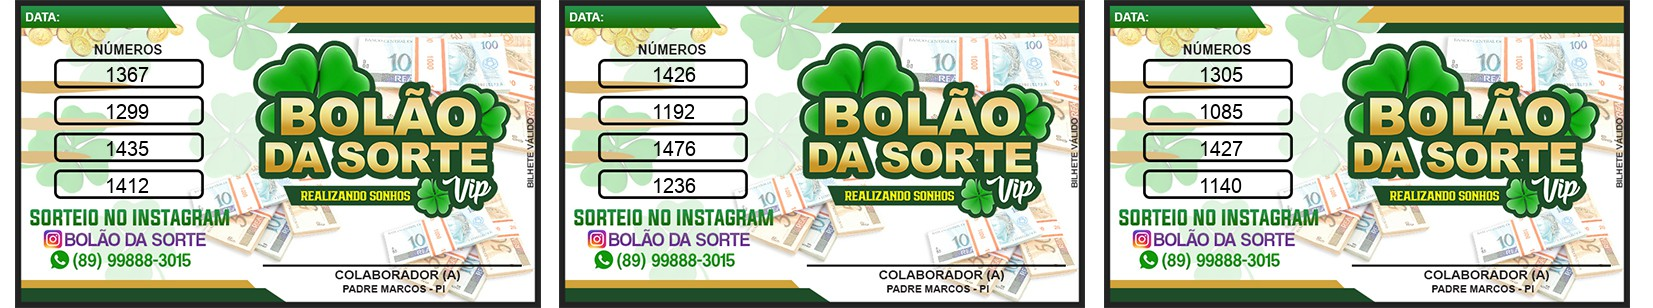
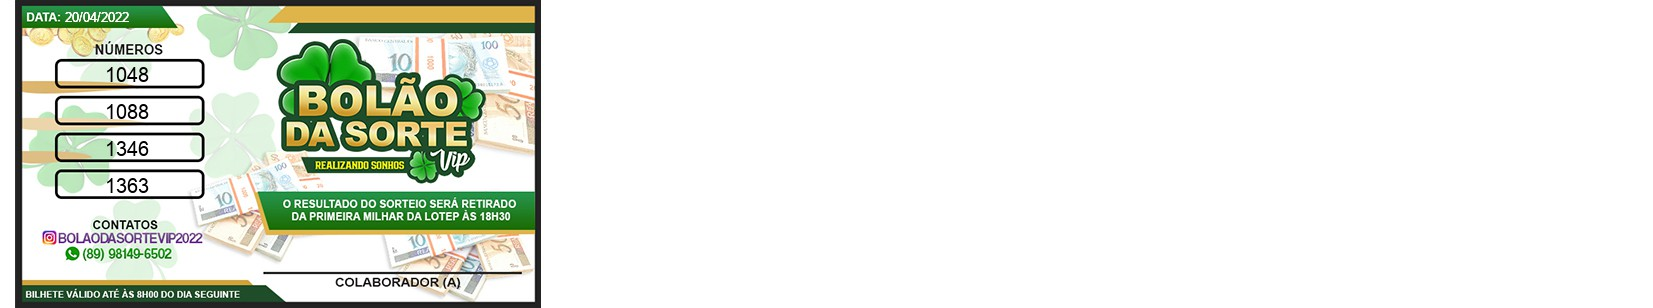
novo modelo

diff --git a/app/Http/Controllers/MediaController.php b/app/Http/Controllers/MediaController.php
@@ -29,15 +29,24 @@ class MediaController extends Controller
 
     public function makeimageOne($count, $array)  
     {  
-       $img = Image::make(public_path('images/modelo1-1n.jpg'));  
+       $img = Image::make(public_path('images/modelo1-1w.jpg'));  
        //$img->text('This is a example ', 120, 100);
        $position = 82;
        // use callback to define details
+       $data  =Carbon::now();
+       $dt = $data->format('d/m/Y');
 
        foreach($array as $item){
             $img->text($item, 105, $position, function($font) {
                 $font->file(public_path('arial/arial.ttf'));
                 $font->size(20);
+                
+            });  
+
+            $img->text($dt, 65,  22, function($font) {
+                $font->file(public_path('arial/arial.ttf'));
+                $font->size(13);
+                $font->color('#FFFAFA');
                 
             });  
             $position += 37;
@@ -50,15 +59,24 @@ class MediaController extends Controller
 
     public function makeimageTwo($count, $array, $array2)  
     {  
-       $img = Image::make(public_path('images/modelo1-2n.jpg'));  
+       $img = Image::make(public_path('images/modelo1-2w.jpg'));  
        //$img->text('This is a example ', 120, 100);
        $position = 82;
        // use callback to define details
+       $data  =Carbon::now();
+       $dt = $data->format('d/m/Y');
 
        foreach($array as $item){
             $img->text($item, 105, $position, function($font) {
                 $font->file(public_path('arial/arial.ttf'));
                 $font->size(20);
+                
+            });  
+
+            $img->text($dt, 65,  22, function($font) {
+                $font->file(public_path('arial/arial.ttf'));
+                $font->size(13);
+                $font->color('#FFFAFA');
                 
             });  
             $position += 37;
@@ -73,6 +91,14 @@ class MediaController extends Controller
                 $font->size(20);
                 
             });  
+
+            $img->text($dt, 607,  22, function($font) {
+                $font->file(public_path('arial/arial.ttf'));
+                $font->size(13);
+                $font->color('#FFFAFA');
+                
+            });  
+            
             $position += 37;
 
         }
@@ -83,17 +109,28 @@ class MediaController extends Controller
 
     public function makeimageThree($count, $array, $array2, $array3)  
     {  
-       $img = Image::make(public_path('images/modelo1-3.jpg'));  
+       $img = Image::make(public_path('images/modelo1-3w.jpg'));  
        //$img->text('This is a example ', 120, 100);
        $position = 82;
        // use callback to define details
         //Array 1
+        $data  =Carbon::now();
+        $dt = $data->format('d/m/Y');
+        //dd($data->format('d/m/Y'));
        foreach($array as $item){
             $img->text($item, 105, $position, function($font) {
                 $font->file(public_path('arial/arial.ttf'));
                 $font->size(20);
                 
             });  
+
+            $img->text($dt, 65,  22, function($font) {
+                $font->file(public_path('arial/arial.ttf'));
+                $font->size(13);
+                $font->color('#FFFAFA');
+                
+            });  
+            
             $position += 37;
 
        }
@@ -106,6 +143,14 @@ class MediaController extends Controller
                 $font->size(20);
                 
             });  
+
+            $img->text($dt, 607,  22, function($font) {
+                $font->file(public_path('arial/arial.ttf'));
+                $font->size(13);
+                $font->color('#FFFAFA');
+                
+            });  
+
             $position += 37;
 
         }
@@ -118,6 +163,14 @@ class MediaController extends Controller
                  $font->size(20);
                  
              });  
+
+             $img->text($dt, 1152,  22, function($font) {
+                $font->file(public_path('arial/arial.ttf'));
+                $font->size(13);
+                $font->color('#FFFAFA');
+                
+            });  
+
              $position += 37;
  
          }
@@ -137,7 +190,7 @@ class MediaController extends Controller
         $intervalo = $max - $min;
 
 
-
+       
 
 
         if($min > $max){
@@ -150,10 +203,7 @@ class MediaController extends Controller
             return back()->with('error', 'O numero de bilhetes a ser gerados é maior que o intervalo de numeros informados!');
             //retornar erro pois a  
         }
-        $model1 = public_path('images/modelo1-1.jpg');
-        $model2 = public_path('images/modelo1-2.jpg');
-        $model3 = public_path('images/modelo1-3.jpg');
-        $path = [$model1, $model2, $model3];
+      
 
         //return view('modelo/pdf1', ['path' => $path]);
        // dd($modelo);
@@ -197,7 +247,7 @@ class MediaController extends Controller
         $mytime = Carbon::now();
         //dd("Successo", $mytime->toDateTimeString()); 
        
-        $pdf = PDF::loadView('modelo/pdf1', ['model1' => $model1, 'model2'=>$model2, 'model3'=> $model3, 'max' =>$l, 'numeros'=>$numeros]);
+        $pdf = PDF::loadView('modelo/pdf1', ['max' =>$l, 'numeros'=>$numeros]);
         return $pdf->stream('invoice.pdf');
       
        
